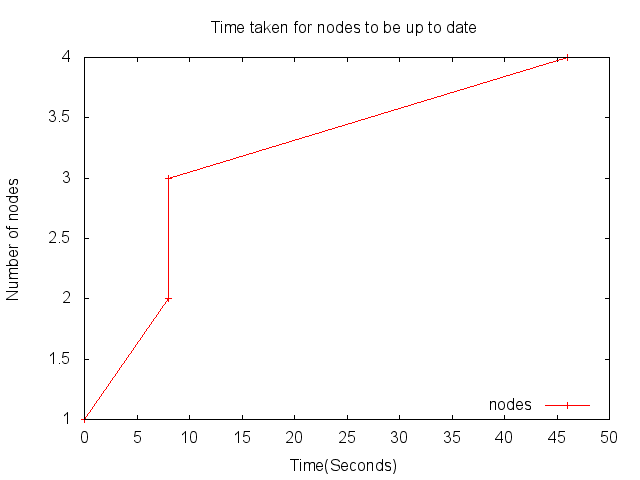
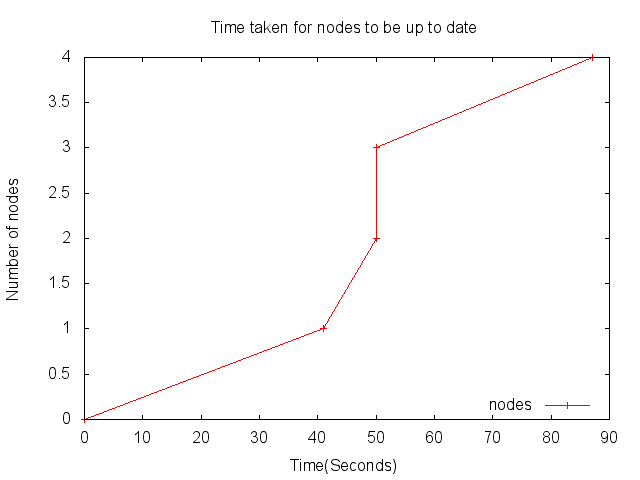
Process logs fix etc

diff --git a/process-logs.py b/process-logs.py
@@ -99,7 +99,7 @@ def main():
     #sys.exit()
 
     timesort = []
-    print beginning_time
+    #print beginning_time
     for node in fin:
         #print fin[node][0]
         timesort.append(int(secondsDiff(fin[node][0],beginning_time)))
@@ -112,7 +112,8 @@ def main():
     for time in timesort:
         if count == 1:
             start_time = time
-        x.write(str(time - start_time) + " " + str(count) + "\n")
+        #x.write(str(time - start_time) + " " + str(count) + "\n")
+        x.write(str(time) + " " + str(count) + "\n")
         count += 1
     x.close()
 
